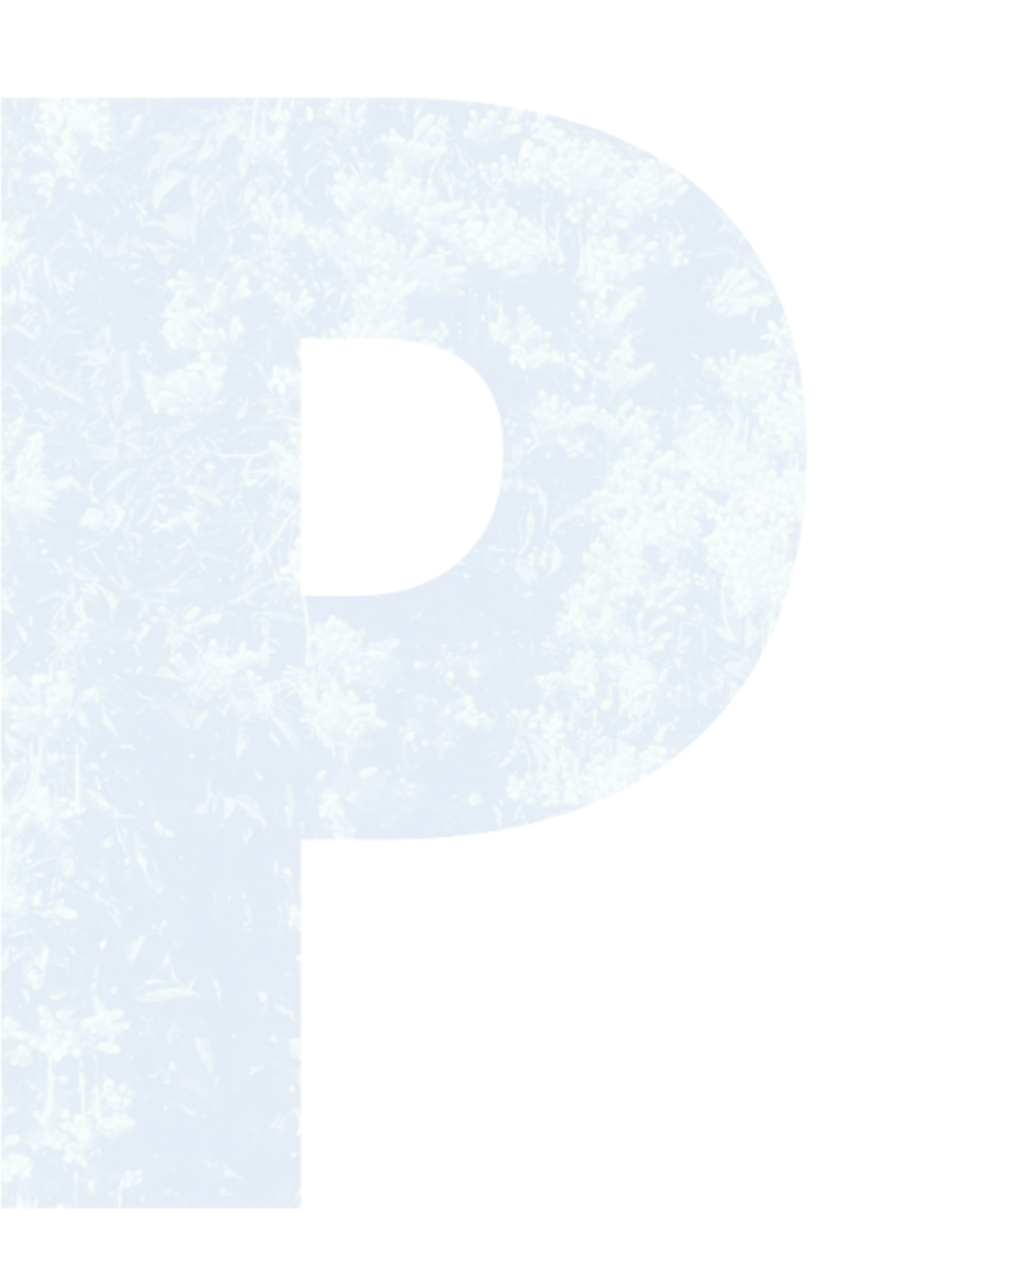
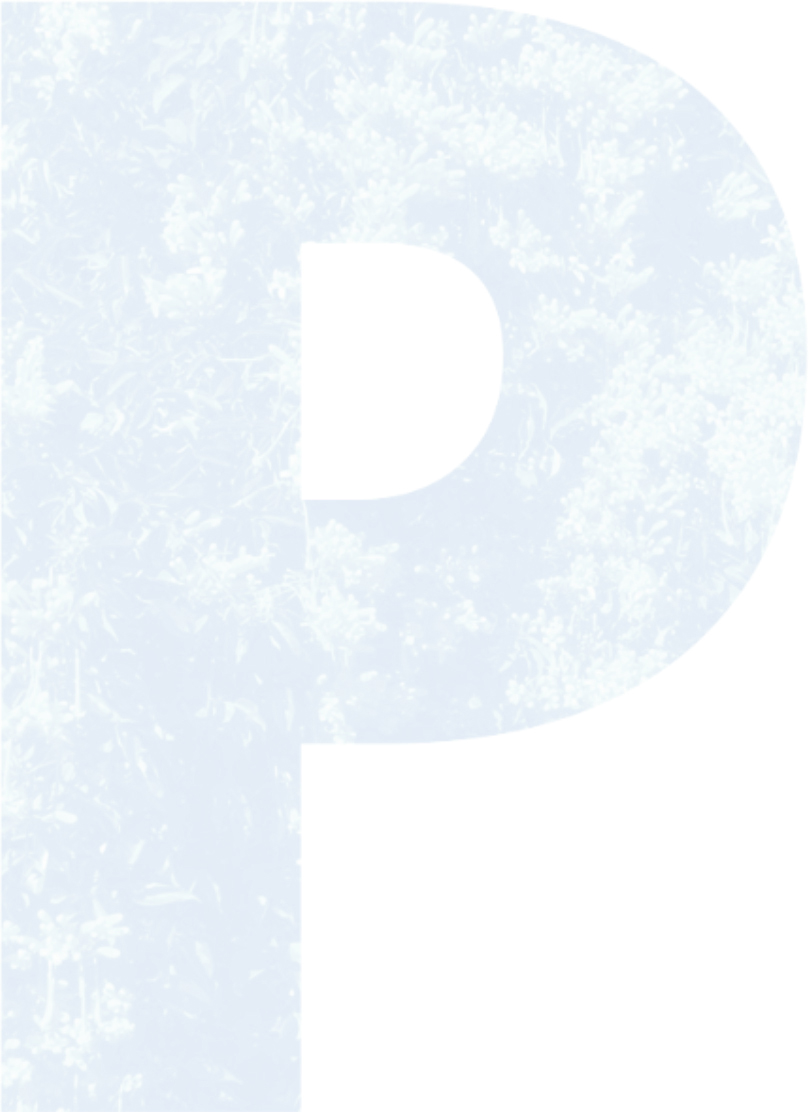
speakers page

diff --git a/_sass/speakers.scss b/_sass/speakers.scss
@@ -34,8 +34,36 @@
 
 .speakers__hero {
     margin-bottom: 4rem;
+    z-index: 2;
+    position: relative;
+    margin-top: 20rem;
+    margin-bottom: 10rem;
 }
 
 .speakers__inspiration {
     background: $primary-color;
+}
+
+.biggP {
+    position: absolute;
+    z-index: -1;
+    height: 50rem;
+    width: auto;
+    overflow: hidden;
+}
+
+.bg {
+    // background: white;
+}
+
+.white-bg {
+    z-index: -3;
+    position: relative;
+    background: white;
+    position: fixed;
+    top: 0;
+    height: 100vh;
+    width: 75%;
+    margin-left: 12.5%;
+
 }

diff --git a/index.html b/index.html
@@ -3,7 +3,8 @@ title: "PowerUp!"
 description: PowerUp
 ---
 
-
+<div class="white-bg">
+</div>
 
 <div class="row">
 	<div class="small-12 columns">
@@ -24,10 +25,6 @@ description: PowerUp
 	<div class="small-12 columns breakout-container">
 		<h2 class="breakout-text"><span>Key note speaker info and other random heading text to accompany.</span></h2>
 	</div>
-</div>
-
-<div class="row expanded">
-	<img src="images/vigil.jpg">
 </div>
 
 

diff --git a/speaker-info.html b/speaker-info.html
@@ -1,9 +1,15 @@
 ---
 ---
+<div class="white-bg">
+</div>
+<div class="row expanded">
+	<img src="../images/bigP.jpg" class="biggP">
+</div>
 
-
-<div class="row">
+<div class="row bg">
+	
 	<div class="small-12 columns speakers__hero">
+		
 		<h3 class="speakers__subh">Join Australia's Top campaigners<br> and change-makers for two days in melbourne,<br> june 6-7</h3>
 		<h1 class="speakers__h"> Speakers and co-chairs </h1>
 		<div>

diff --git a/_sass/elements.scss b/_sass/elements.scss
@@ -1,6 +1,4 @@
-html {
-	background: #2b2b40;
-}
+
 
 html, body {
 	margin: 0;
@@ -54,13 +52,16 @@ h6 {
 	font-size: 0.8rem;
 }
 
+body {
+	font-size: 18px;
+}
 
 p, address {
-	font-size: 1.38em;
+	font-size: 18px;
 	color: #666;
 	margin-bottom: 20px;
 	font-weight: 300;
-	line-height: 1.4em;
+	line-height: 28px;
 }
 
 .button {

diff --git a/_layouts/page.html b/_layouts/page.html
@@ -1,7 +1,9 @@
 ---
 layout: default
 ---
-<div class="content">
+
+{{ content }}
+<!--<div class="content">
 	<section class="page">
 		<div class="container {% if page.full_width %}max-container{% endif %}">
 			{% if page.heading %}
@@ -15,4 +17,4 @@ layout: default
 			{{ content }}
 		</div>
 	</section>
-</div>
+</div>-->
